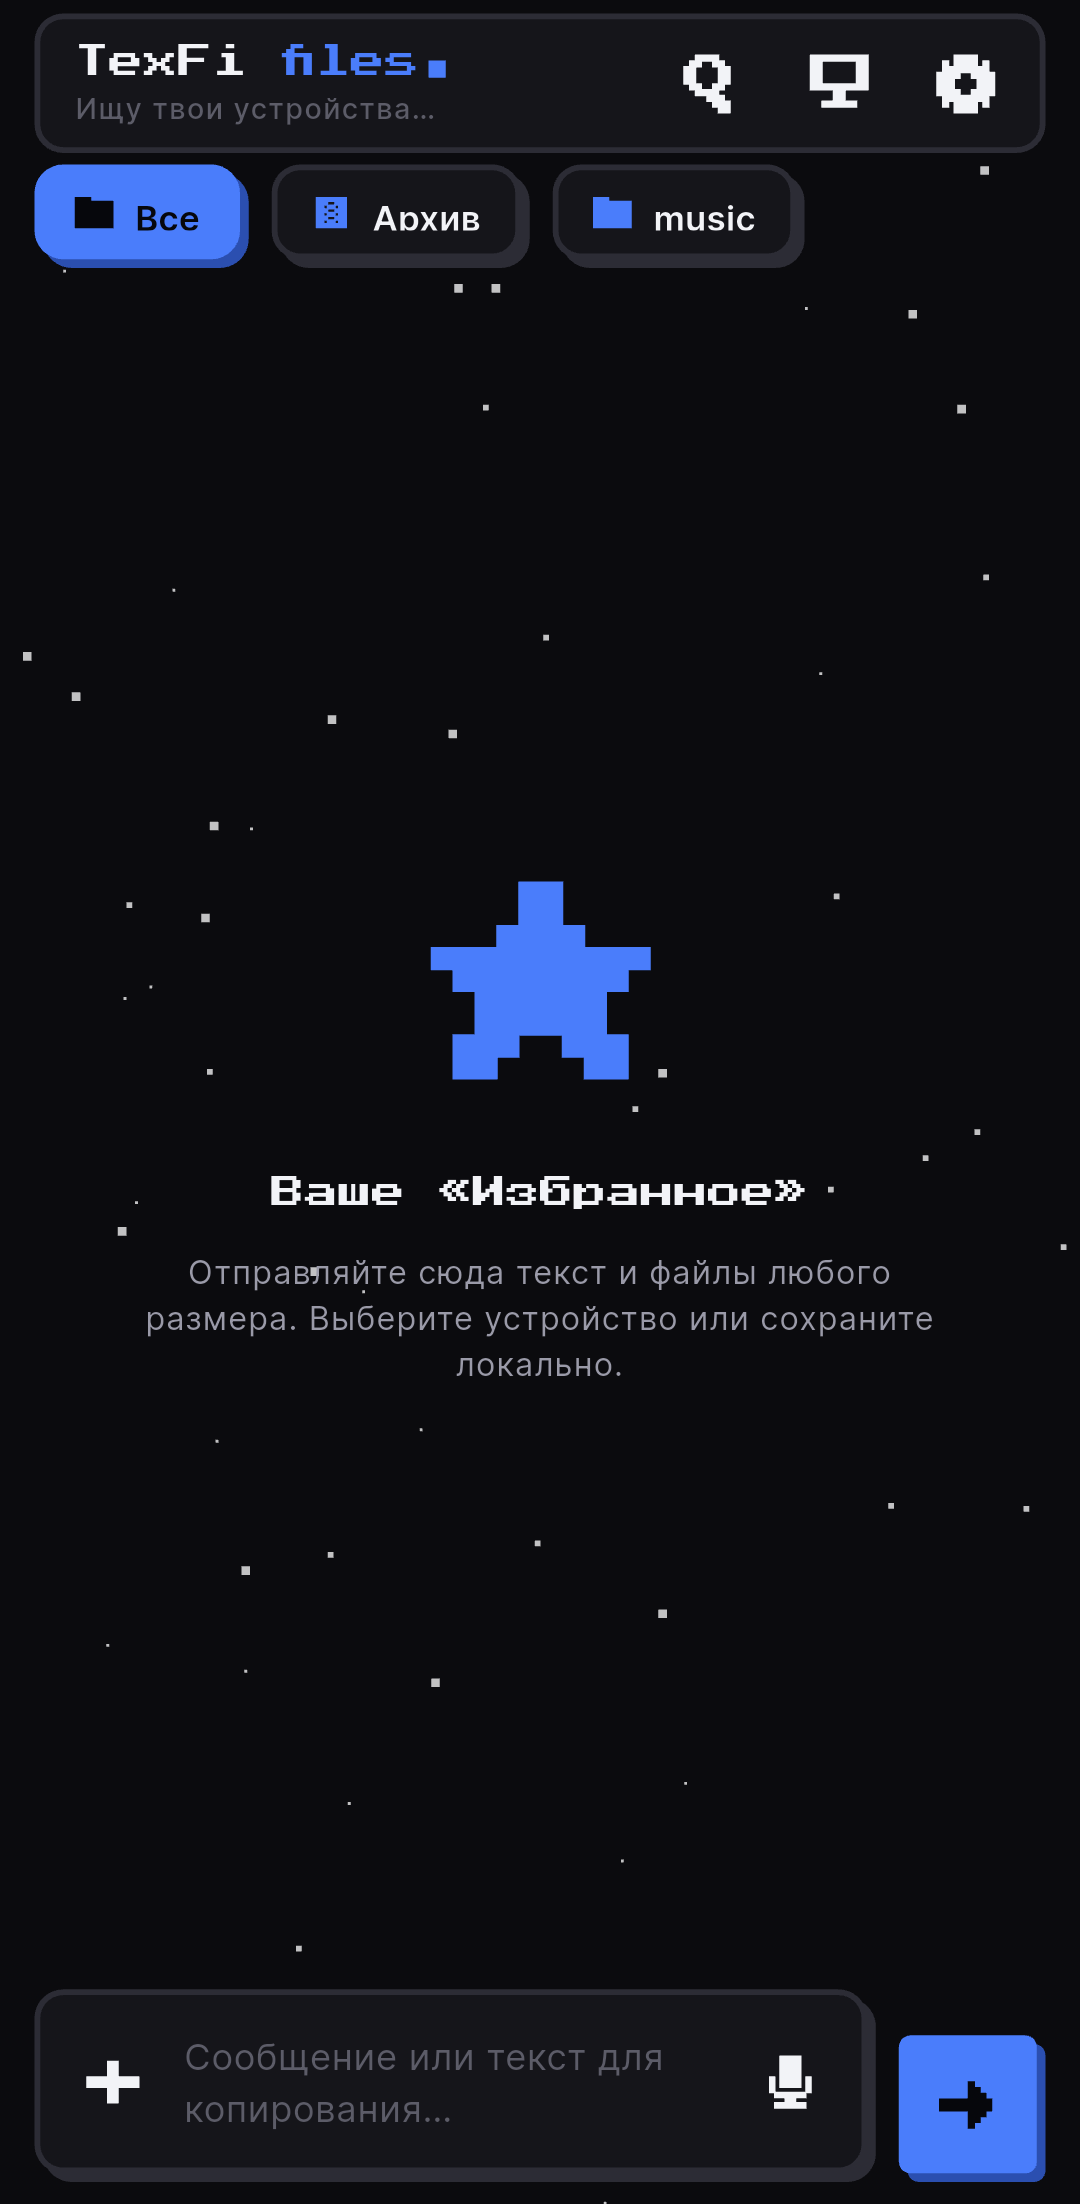
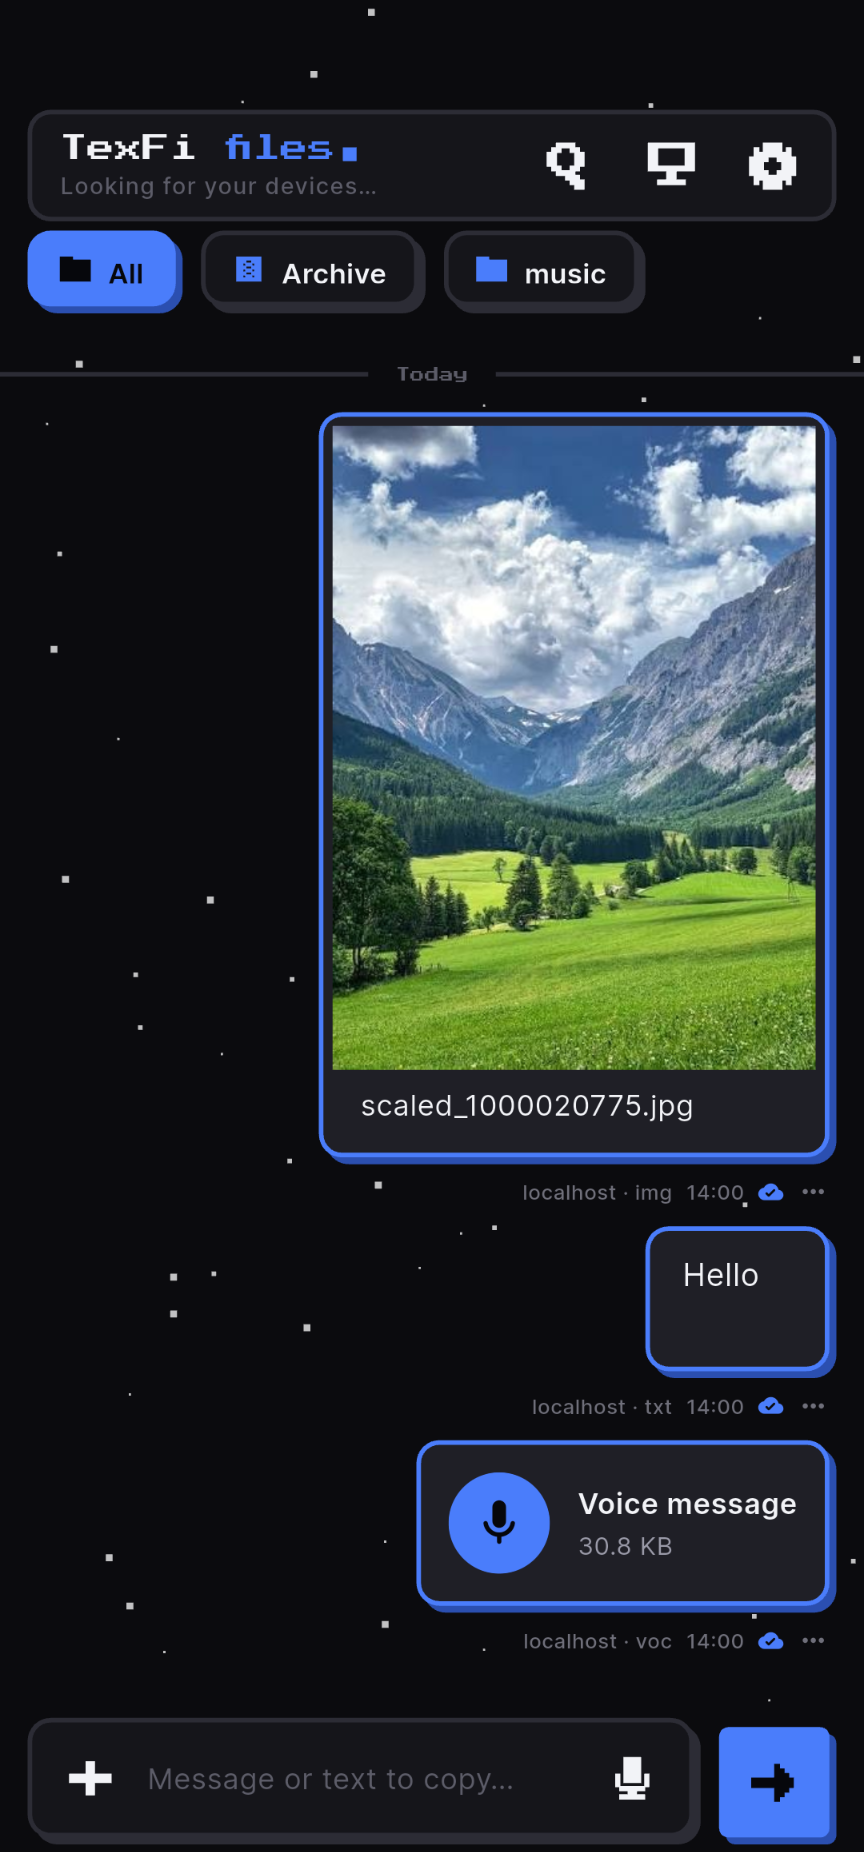
Add the message feed to the screenshots
The app's main screen was missing from the set, because the only frame of
it held a real conversation. Here it is with neutral content: a photo, a
line of text and a voice note. Four screenshots now, the feed first.

diff --git a/README.md b/README.md
@@ -50,9 +50,10 @@ Or let the site pick the file for your machine:
 ## Screenshots
 
 <p align="center">
-  <img src="fastlane/metadata/android/en-US/images/phoneScreenshots/1.png" width="180" alt="Your saved messages">
-  <img src="fastlane/metadata/android/en-US/images/phoneScreenshots/2.png" width="180" alt="Devices on the network">
-  <img src="fastlane/metadata/android/en-US/images/phoneScreenshots/3.png" width="180" alt="Settings">
+  <img src="fastlane/metadata/android/en-US/images/phoneScreenshots/1.png" width="180" alt="Your feed">
+  <img src="fastlane/metadata/android/en-US/images/phoneScreenshots/2.png" width="180" alt="Saved messages">
+  <img src="fastlane/metadata/android/en-US/images/phoneScreenshots/3.png" width="180" alt="Devices on the network">
+  <img src="fastlane/metadata/android/en-US/images/phoneScreenshots/4.png" width="180" alt="Settings">
 </p>
 
 <p align="center"><i>More on the <a href="https://texfi-hub.vercel.app/download/files">download page</a>.</i></p>
